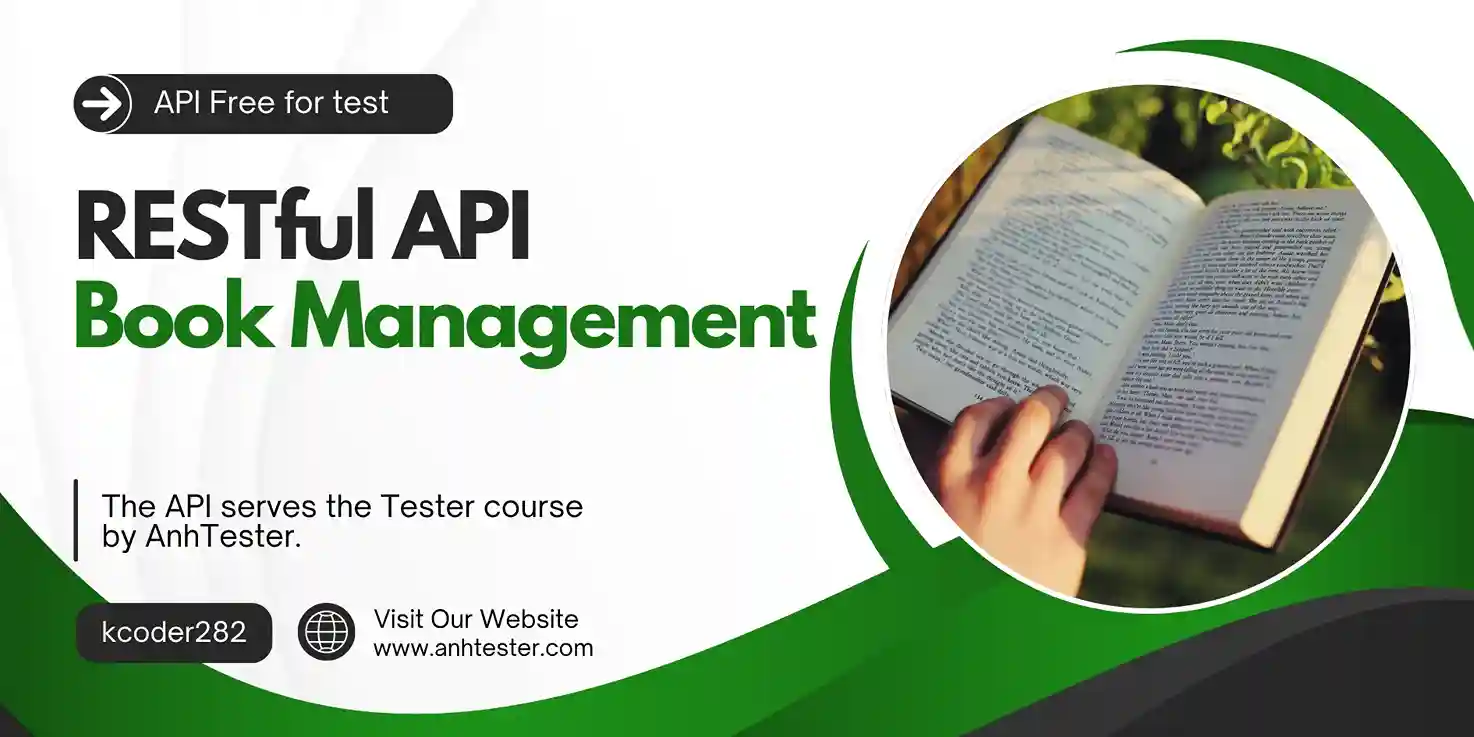
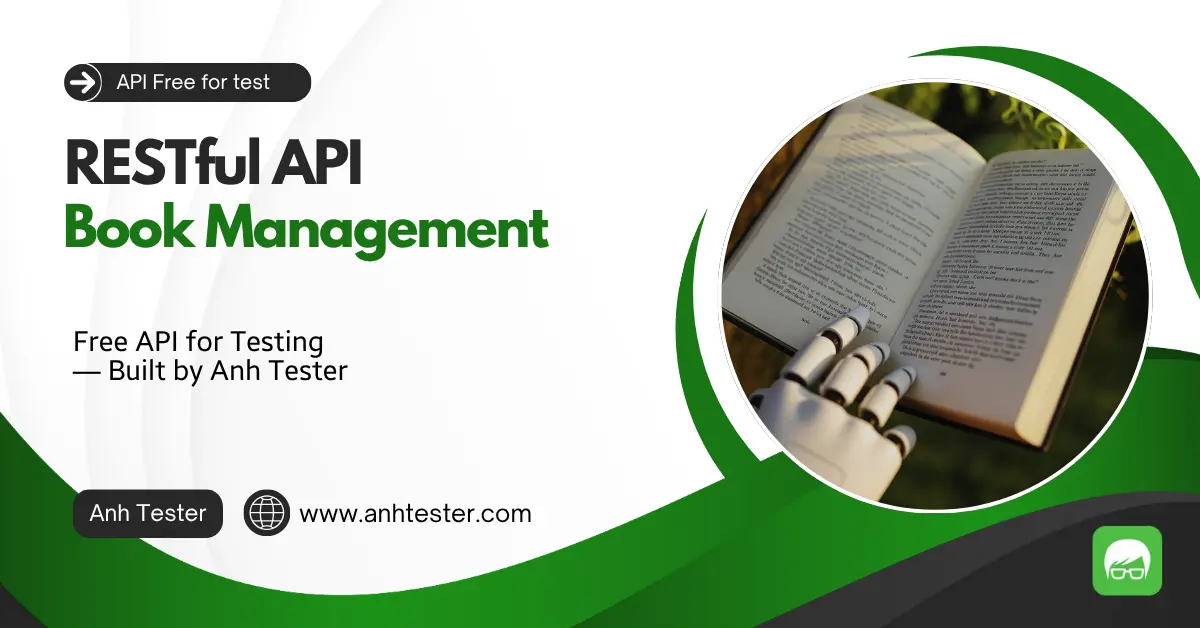
push

diff --git a/frontend/index.html b/frontend/index.html
@@ -16,8 +16,8 @@
     <meta name="msapplication-TileImage" content="/assets/icon.png" />
 
     <!-- Tiêu đề & Mô tả SEO -->
-    <title>Book UI - Giao diện quản lý sách hiện đại cho book.anhtester.com</title>
-    <meta name="description" content="Book UI là giao diện quản lý sách trực quan, tích hợp Book API từ anhtester. Tìm kiếm, thêm, sửa, xóa sách dễ dàng. Hỗ trợ responsive, tối ưu tốc độ và trải nghiệm người dùng." />
+    <title>API RESTful miễn phí dành cho Tester kiểm thử</title>
+    <meta name="description" content="Hệ thống Book Management gồm API RESTful và UI được Anh Tester xây dựng dành cho việc thực hành kiểm thử API và UI. Phù hợp cho người mới học và các tester automation muốn luyện tập, kiểm thử và hoàn toàn miễn phí." />
 
     <!-- Từ khóa SEO (khuyến nghị không nhồi nhét, giữ tự nhiên) -->
     <meta name="keywords" content="Book UI, book.anhtester.com, Book API, API quản lý sách, anhtester, giao diện quản lý sách, thư viện sách online, quản lý sách trực tuyến, API sách, anhtester api" />

diff --git a/frontend/src/pages/home/page.tsx b/frontend/src/pages/home/page.tsx
@@ -124,7 +124,19 @@ export default function Page() {
     <DashboardContent>
       <Stack spacing={2}>
         <Card>
-          <Box component="img" src="/assets/thumb.webp" />
+          <Box
+            component="img"
+            alt="Free API for Testing"
+            src="/assets/Free-API-for-Testing.png"
+            srcSet="/assets/thumb.webp 1x, /assets/Free-API-for-Testing.png 2x"
+            sx={{
+              width: 1,
+              border: 'none',
+              aspectRatio: '1200/628',
+              objectFit: 'cover',
+              borderRadius: 2,
+            }}
+          />
         </Card>
         <Box
           display="flex"
